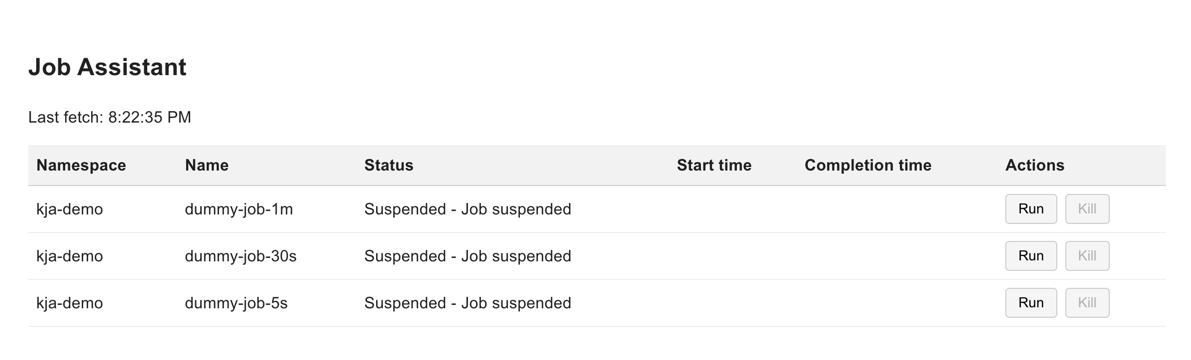
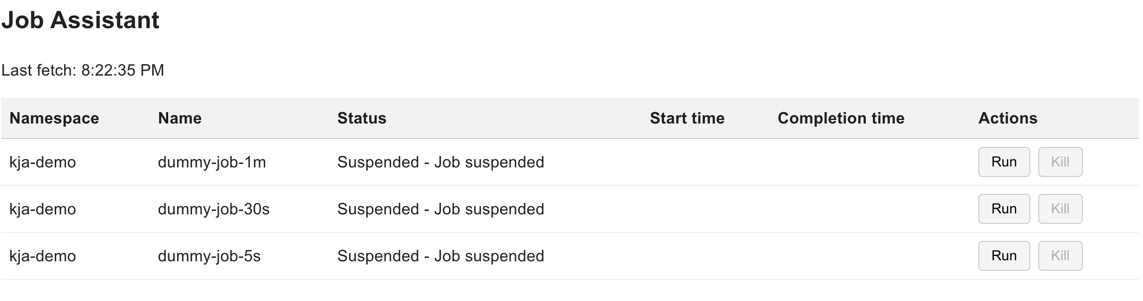
kja : doc : add user_guide doc complete with screenshots

diff --git a/k8s_job_assistant/USER_GUIDE.md b/k8s_job_assistant/USER_GUIDE.md
@@ -1,0 +1,25 @@
+This document is intended for end user to know how to use KJA UI. 
+
+Kubernetes Job Assistant
+========================
+
+KJA offers a simple UI to perform the following
+* list KJA supported Job
+
+![kja demo list with dummy jobs](doc/kja_demo.png)
+> the list is refreshed every 5 seconds as long as the tab is active. Check
+> "Last fetch" to know where the list was last retrieved
+
+* run a job
+
+![kja demo list with dummy jobs and one job running](doc/kja_demo_running_job.png)
+> dummy-jobs-30s is running, it has a start time and can be killed
+
+![kja demo list with dummy jobs and one job complete](doc/kja_demo_job_complete.png) 
+> dummy-jobs-30s is now complete, it has a completion time
+
+* kill a job while it's running
+
+![kja demo list with dummy jobs and one job got killed](doc/kja_demo_killed_job.png)
+
+> dummy-jobs-30s has a start time, no completion time and is now suspended
